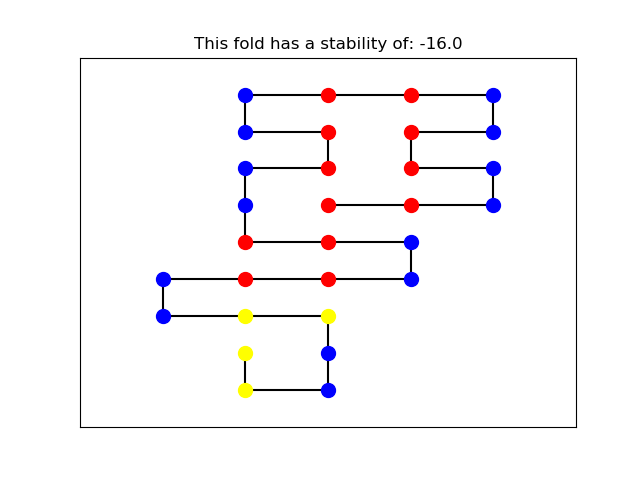
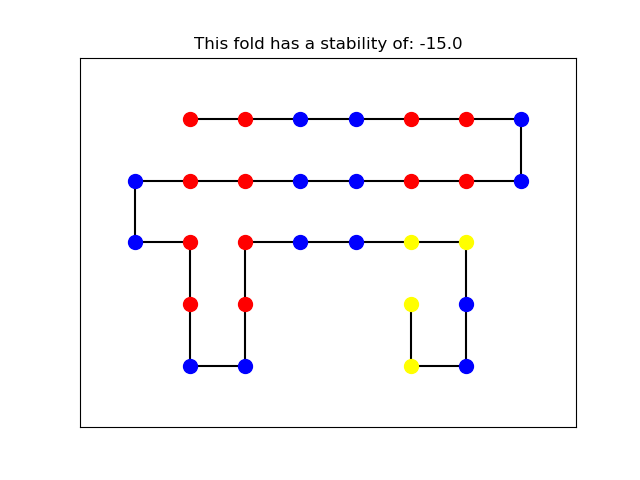
Hillclimber/greedy design, aparte functie voor hillclimbers in functions

diff --git a/code/algoritmes/greedy.py b/code/algoritmes/greedy.py
@@ -2,7 +2,7 @@ from sys import argv
 from protein import Protein
 from path import Path
 from copy import deepcopy
-from functions import viable_random_product_3d, all_options_3d, amino_positions_3d, fold_points_3d
+from functions import viable_random_product_3d, all_options_3d, amino_positions_3d, fold_points_3d_hc
 
 change_length = 6
 number_loops = 3
@@ -17,7 +17,7 @@ def greedy():
 
     # finds positions and fold points of randomly generated option
     best_positions = amino_positions_3d(best_fold)
-    best_fold_points = fold_points_3d(best_positions, protein, "change")
+    best_fold_points = fold_points_3d_hc(best_positions, protein)
 
     # creates list of all options of size change_length
     possible_changes = all_options_3d(change_length)
@@ -43,12 +43,12 @@ def greedy():
                 if changed_positions:
 
                     # remembers fold and positions if they improve the score
-                    fold_points = fold_points_3d(changed_positions, protein, "change")
+                    fold_points = fold_points_3d_hc(changed_positions, protein)
                     if fold_points > best_fold_points:
                         best_fold_points = fold_points
                         best_fold = changed_fold
                         best_positions = changed_positions
-                        print("New best fold points: " + str(int(best_fold_points)))
+                        print("New best fold points: " + str(best_fold_points))
                         print("")
 
             # builds up the option on the first loop

diff --git a/code/algoritmes/hillclimber.py b/code/algoritmes/hillclimber.py
@@ -2,13 +2,13 @@ from sys import argv
 from copy import deepcopy
 from protein import Protein
 from path import Path
-from functions import viable_random_product_3d, all_options_3d, amino_positions_3d, fold_points_3d
+from functions import viable_random_product_3d, all_options_3d, amino_positions_3d, fold_points_3d_hc
 
 change_length = 6
 number_loops = 2
 
 def hillclimber():
-    
+
     # makes user input into the protein class
     protein = Protein(argv[1])
 
@@ -17,7 +17,7 @@ def hillclimber():
 
     # finds positions and fold points of randomly generated option
     best_positions = amino_positions_3d(best_fold)
-    best_fold_points = fold_points_3d(best_positions, protein, "change")
+    best_fold_points = fold_points_3d_hc(best_positions, protein)
 
     # creates list of all options of size change_length
     possible_changes = all_options_3d(change_length)
@@ -43,7 +43,7 @@ def hillclimber():
                 if changed_positions:
 
                     # remembers fold and positions if they improve the score
-                    fold_points = fold_points_3d(changed_positions, protein, "change")
+                    fold_points = fold_points_3d_hc(changed_positions, protein)
                     if fold_points > best_fold_points:
                         best_fold_points = fold_points
                         best_fold = changed_fold

diff --git a/code/algoritmes/functions.py b/code/algoritmes/functions.py
@@ -1,5 +1,6 @@
 import random
 from math import ceil
+from copy import deepcopy
 from itertools import product
 
 # generates a random option of the sequence *args of length repeat
@@ -199,7 +200,7 @@ def fold_points_2d(positions, protein):
     return (points / 2)  - protein.errorpoint[-1]
 
 # checks the points scored by the current fold
-def fold_points_3d(positions, protein, version):
+def fold_points_3d_hc(positions, protein):
     points = 0
     HHHH = []
     CCCC = []
@@ -221,7 +222,4 @@ def fold_points_3d(positions, protein, version):
                 points += 5
             elif (acid_position[0] + look_around[0], acid_position[1] + look_around[1], acid_position[2] + look_around[2]) in HHHH:
                 points += 1
-    if version == "change":
-        return (points / 2) - protein.errorpoint[-1]
-    else:
-        return points / 2
+    return (points / 2) - protein.errorpoint[-1]

diff --git a/code/algoritmes/greedy_two_d.py b/code/algoritmes/greedy_two_d.py
@@ -48,7 +48,7 @@ def greedy():
                         best_fold_points = fold_points
                         best_fold = changed_fold
                         best_positions = changed_positions
-                        print("New best fold points: " + str(int(best_fold_points)))
+                        print("New best fold points: " + str(best_fold_points))
                         print("")
 
             # builds up the option on the first loop

diff --git a/code/algoritmes/hillclimber_two_d.py b/code/algoritmes/hillclimber_two_d.py
@@ -4,8 +4,8 @@ from protein import Protein
 from path import Path
 from functions import viable_random_product_2d, all_options_2d, amino_positions_2d, fold_points_2d
 
-change_length = 6
-number_loops = 2
+change_length = 8
+number_loops = 3
 
 def hillclimber():
 
